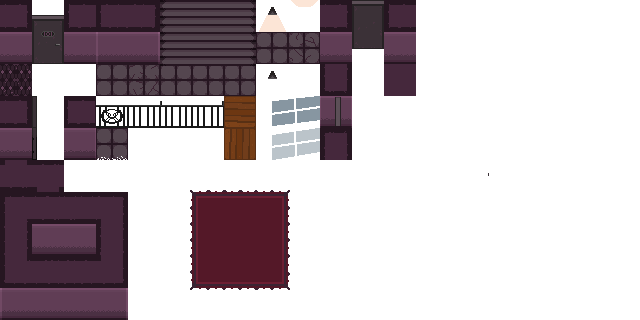
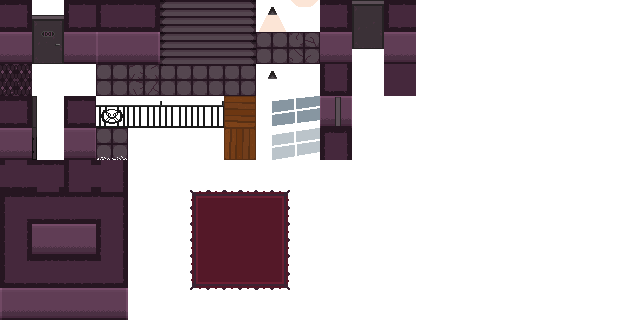
fixed up level transitions, and put in new tileset

Changed region(s): [[0.0938, 0.5, 0.2188, 0.625]]

diff --git a/src/scenes/Floor_3.js b/src/scenes/Floor_3.js
@@ -53,6 +53,8 @@ class Floor_3 extends Phaser.Scene{
         this.player = new Player(this, this.playerX, this.playerY, 'player', 0);
         this.cameras.main.startFollow(this.player);
 
+        map.createLayer('abovePlayer', tileset);
+
         this.physics.add.collider(this.player, walls);
     }
     createKeys(){
@@ -72,7 +74,8 @@ class Floor_3 extends Phaser.Scene{
             this.scene.switch('Drawing');
         }
         if(interactKey.isDown && !this.finishedLevel){
-            this.scene.start('Floor_3_OTHER', {findingTime: this.findingTime, password: this.password, passwordIndex: this.passwordIndex, floorList: this.floorList});
+            this.scene.start('Floor_3_OTHER', {findingTime: this.findingTime, password: this.password, passwordIndex: this.passwordIndex, floorList: this.floorList,
+            playerX: this.player.x, playerY: this.player.y});
         }else if(this.finishedLevel && !this.enteredElevator){
             this.physics.world.collide(this.player, this.elevator, this.elveatorExit, null, this);
         }

diff --git a/src/scenes/Floor_1_OTHER.js b/src/scenes/Floor_1_OTHER.js
@@ -8,6 +8,8 @@ class Floor_1_OTHER extends Phaser.Scene{
         this.floorList = data.floorList;
         this.passwordIndex = data.passwordIndex;
         this.finishedLevel = data.finishedLevel;
+        this.playerY = data.playerY;
+        this.playerX = data.playerX;
     }
     ///////////////////////////
  
@@ -28,7 +30,7 @@ class Floor_1_OTHER extends Phaser.Scene{
         this.cameras.main.fadeIn(1500, 0, 0, 0);
         this.createKeys();
         this. background = this.add.image(game.config.width/2, game.config.height/2, 'BG6');
-        this.player = new Player(this, game.config.width/2, game.config.height/2, 'player', 0);
+        this.player = new Player(this, this.playerX, this.playerY, 'player', 0);
         this.cameras.main.startFollow(this.player);
     }
     createKeys(){

diff --git a/src/scenes/Floor_2_OTHER.js b/src/scenes/Floor_2_OTHER.js
@@ -8,6 +8,8 @@ class Floor_2_OTHER extends Phaser.Scene{
         this.floorList = data.floorList;
         this.passwordIndex = data.passwordIndex;
         this.finishedLevel = data.finishedLevel;
+        this.playerX = data.playerX;
+        this.playerY = data.playerY;
     }
     ///////////////////////////
  
@@ -28,7 +30,7 @@ class Floor_2_OTHER extends Phaser.Scene{
         this.cameras.main.fadeIn(1500, 0, 0, 0);
         this.createKeys();
         this. background = this.add.image(game.config.width/2, game.config.height/2, 'BG6');
-        this.player = new Player(this, game.config.width/2, game.config.height/2, 'player', 0);
+        this.player = new Player(this, this.playerX, this.playerY, 'player', 0);
         this.cameras.main.startFollow(this.player);
     }
     createKeys(){

diff --git a/src/scenes/Floor_3_OTHER.js b/src/scenes/Floor_3_OTHER.js
@@ -8,6 +8,8 @@ class Floor_3_OTHER extends Phaser.Scene{
         this.floorList = data.floorList;
         this.passwordIndex = data.passwordIndex;
         this.finishedLevel = data.finishedLevel;
+        this.playerX = data.playerX;
+        this.playerY = data.playerY;
     }
     ///////////////////////////
  
@@ -28,7 +30,7 @@ class Floor_3_OTHER extends Phaser.Scene{
         this.cameras.main.fadeIn(1500, 0, 0, 0);
         this.createKeys();
         this. background = this.add.image(game.config.width/2, game.config.height/2, 'BG6');
-        this.player = new Player(this, game.config.width/2, game.config.height/2, 'player', 0);
+        this.player = new Player(this, this.playerX, this.playerY, 'player', 0);
         this.cameras.main.startFollow(this.player);
     }
     createKeys(){

diff --git a/src/scenes/Floor_4_OTHER.js b/src/scenes/Floor_4_OTHER.js
@@ -8,6 +8,8 @@ class Floor_4_OTHER extends Phaser.Scene{
         this.floorList = data.floorList;
         this.passwordIndex = data.passwordIndex;
         this.finishedLevel = data.finishedLevel;
+        this.playerX = data.playerX;
+        this.playerY = data.playerY;
     }
     ///////////////////////////
  
@@ -28,7 +30,7 @@ class Floor_4_OTHER extends Phaser.Scene{
         this.cameras.main.fadeIn(1500, 0, 0, 0);
         this.createKeys();
         this. background = this.add.image(game.config.width/2, game.config.height/2, 'BG6');
-        this.player = new Player(this, game.config.width/2, game.config.height/2, 'player', 0);
+        this.player = new Player(this,this.playerX, this.playerY, 'player', 0);
         this.cameras.main.startFollow(this.player);
     }
     createKeys(){

diff --git a/src/scenes/Floor_1.js b/src/scenes/Floor_1.js
@@ -71,7 +71,8 @@ class Floor_1 extends Phaser.Scene{
             this.scene.switch('Drawing');
         }
         if(interactKey.isDown && !this.finishedLevel){
-            this.scene.start('Floor_1_OTHER', {findingTime: this.findingTime, password: this.password, passwordIndex: this.passwordIndex, floorList: this.floorList});
+            this.scene.start('Floor_1_OTHER', {findingTime: this.findingTime, password: this.password, passwordIndex: this.passwordIndex, floorList: this.floorList,
+            playerX: this.player.x, playerY: this.player.y});
         }else if(this.finishedLevel && !this.enteredElevator){
             this.physics.world.collide(this.player, this.elevator, this.elveatorExit, null, this);
         }

diff --git a/src/scenes/Floor_2.js b/src/scenes/Floor_2.js
@@ -71,7 +71,8 @@ class Floor_2 extends Phaser.Scene{
             this.scene.switch('Drawing');
         }
         if(interactKey.isDown && !this.finishedLevel){
-            this.scene.start('Floor_2_OTHER', {findingTime: this.findingTime, password: this.password, passwordIndex: this.passwordIndex, floorList: this.floorList});
+            this.scene.start('Floor_2_OTHER', {findingTime: this.findingTime, password: this.password, passwordIndex: this.passwordIndex, floorList: this.floorList,
+            playerX: this.player.x, playerY: this.player.y});
         }else if(this.finishedLevel && !this.enteredElevator){
             this.physics.world.collide(this.player, this.elevator, this.elveatorExit, null, this);
         }

diff --git a/src/scenes/Floor_4.js b/src/scenes/Floor_4.js
@@ -71,7 +71,8 @@ class Floor_4 extends Phaser.Scene{
             this.scene.switch('Drawing');
         }
         if(interactKey.isDown && !this.finishedLevel){
-            this.scene.start('Floor_4_OTHER', {findingTime: this.findingTime, password: this.password, passwordIndex: this.passwordIndex, floorList: this.floorList});
+            this.scene.start('Floor_4_OTHER', {findingTime: this.findingTime, password: this.password, passwordIndex: this.passwordIndex, floorList: this.floorList,
+            playerX: this.player.x, playerY: this.player.y});
         }else if(this.finishedLevel && !this.enteredElevator){
             this.physics.world.collide(this.player, this.elevator, this.elveatorExit, null, this);
         }
